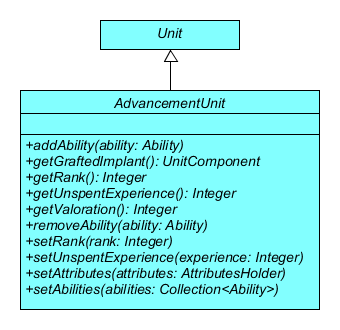
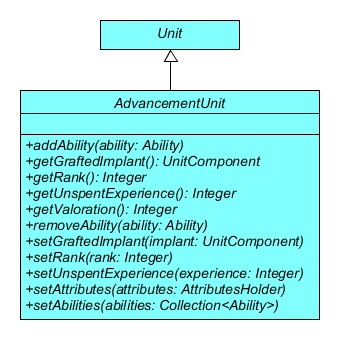
It is now possible to set the Advancement Unit grafted implant.

Changed region(s): [[0.0588, 0.3939, 0.9412, 0.9394], [0.0588, 0.2424, 0.9412, 0.3636], [0.2941, 0.0606, 0.7059, 0.2121]]

diff --git a/src/main/java/com/wandrell/tabletop/dreadball/model/unit/AdvancementUnit.java b/src/main/java/com/wandrell/tabletop/dreadball/model/unit/AdvancementUnit.java
@@ -54,7 +54,7 @@ public interface AdvancementUnit extends Unit {
     public void addAbility(final Ability ability);
 
     /**
-     * Returns the implant this player has received, if any.
+     * Returns the implant this unit has received, if any.
      * <p>
      * If no implant has been grafted, it is recommended returning a stub
      * implementation of the {@code UnitComponent} interface.
@@ -62,7 +62,7 @@ public interface AdvancementUnit extends Unit {
      * @return the implant this player has received
      */
     public UnitComponent getGraftedImplant();
-
+    
     /**
      * Returns the unit's current rank.
      * <p>
@@ -123,6 +123,12 @@ public interface AdvancementUnit extends Unit {
      *            the player's attributes
      */
     public void setAttributes(final AttributesHolder attributes);
+
+    /**
+     * Sets the grafted implant for this unit.
+     * @param implant the implant grafted to this unit
+     */
+    public void setGraftedImplant(final UnitComponent implant);
 
     /**
      * Sets the unit's current rank.
